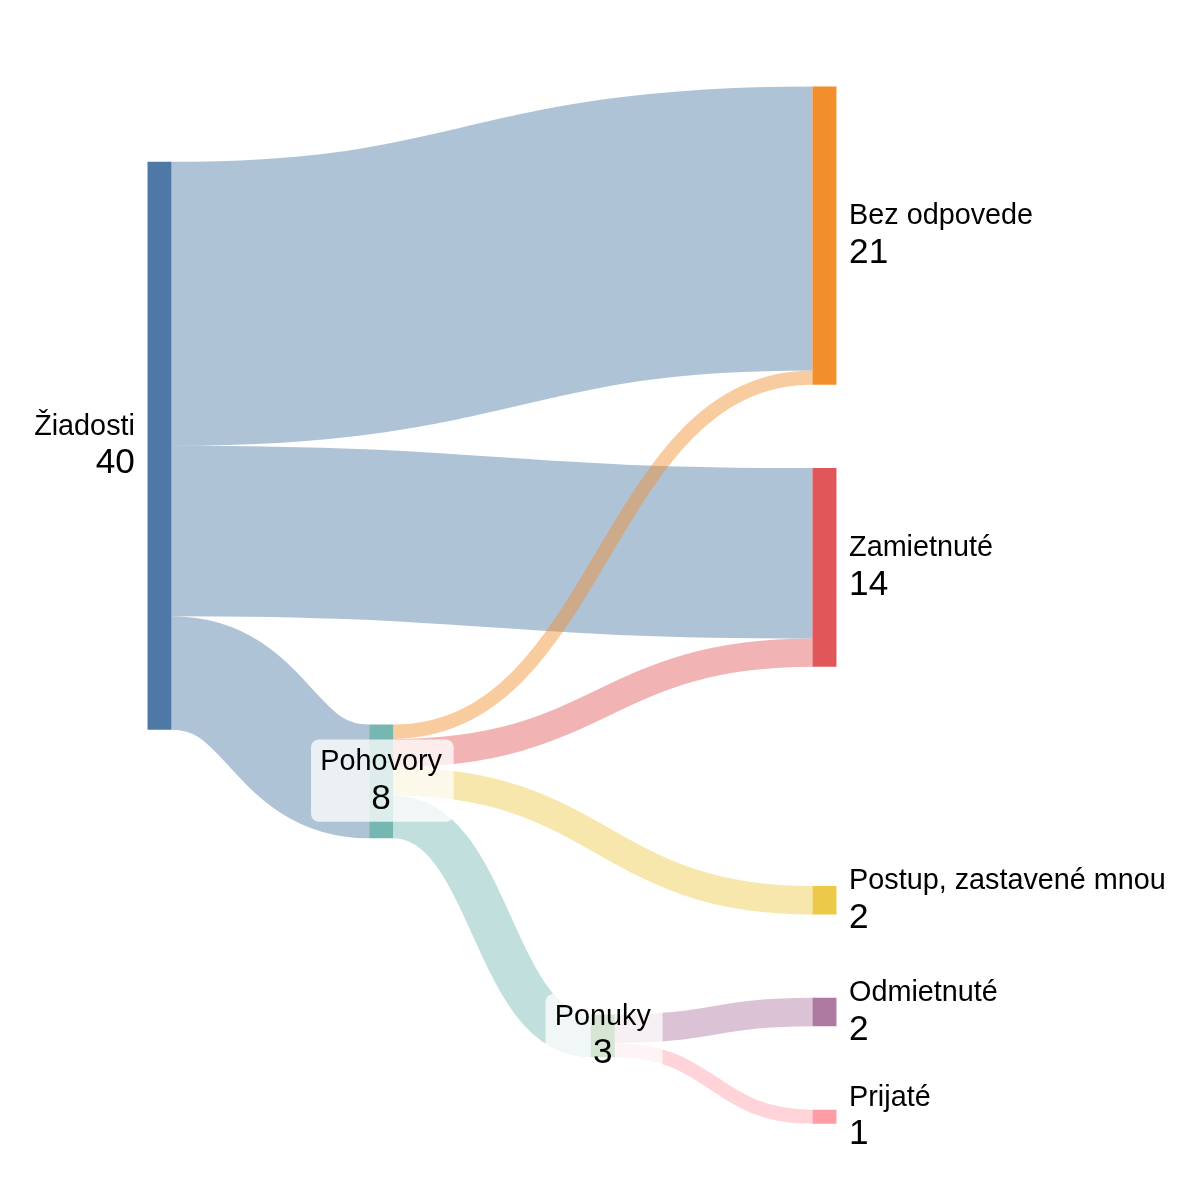
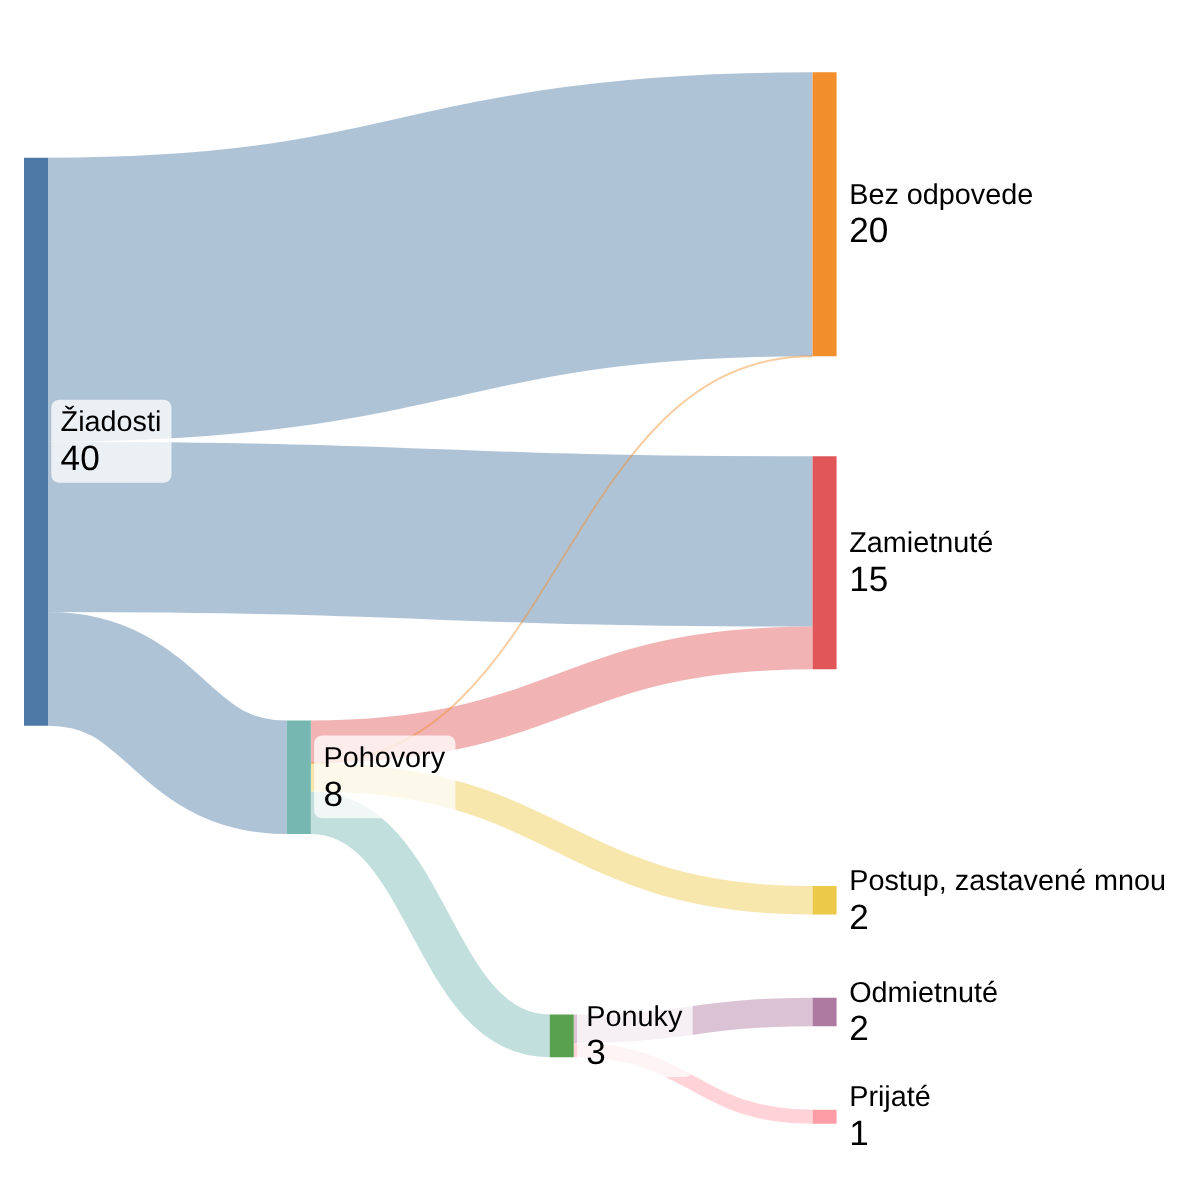
update Sankey graph and add a new book

diff --git a/content/blog/kniznica.md b/content/blog/kniznica.md
@@ -2,7 +2,7 @@
 title = "IT knižnica"
 description = "Zoznam kníh, ktoré som prečítala a odporúčam."
 date = "2025-07-01"
-updated = "2025-12-31"
+updated = "2026-04-14"
 
 [taxonomies]
 tags=["IT", "testovanie", "DevOps"]
@@ -22,6 +22,8 @@ comment = true
 [A Practical Guide to Testing in DevOps](https://www.goodreads.com/book/show/35904152-a-practical-guide-to-testing-in-devops) - čo znamená DevOps metodológia pre rolu testera, testovanie v produkcii, testovanie samotných DevOps komponentov (CI/CD, infraštruktúry, monitorovania a výstrah), použitie monitorovania ako testovania, obsahuje aj príklady testovania v DevOps z praxe u známych firiem. Páčila sa mi analógia DevOps bug filtra a testovacieho kyvadla medzi hlbokým a plytkým testovaním.
 
 [Effective Software Testing: A developer's guide](https://www.goodreads.com/book/show/59796908-effective-software-testing) - kniha sa hodí, ak chcete byť SDET,  snažíte sa testy posúvať na nižšie úrovne, alebo hľadáte spoločný náhľad s developermi, je tu aj kapitola venovaná väčším systémovým testom, ktoré typicky píšu testeri
+
+[Testing Web APIs](https://www.goodreads.com/book/show/59694557-testing-web-apis) - holistická stratégia testovania webových API na základe rizika a jej implementácia rôznymi činnosťami - testovanie API dizajnu, exploratory testing API, automatizované testovanie (regresné, akceptačné, mocking, contract testing), performance, security a testovanie v produkcii
 
 [Contract Testing in Action](https://www.goodreads.com/book/show/213798717-contract-testing-in-action) - ako uvádza titulok, v akcii je framework Pact, pokiaľ viem, pred ňou neexistovalo nič ucelené na túto tému
 

diff --git a/content/blog/job-hunting.md b/content/blog/job-hunting.md
@@ -1,6 +1,6 @@
 +++
 date = "2026-04-01"
-updated = "2026-04-05"
+updated = "2026-04-14"
 description = "Sumár môjho hľadania práce od posledného kvartálu 2025 a zistení o trhu a nábore."
 title = "Hľadanie práce"
 
